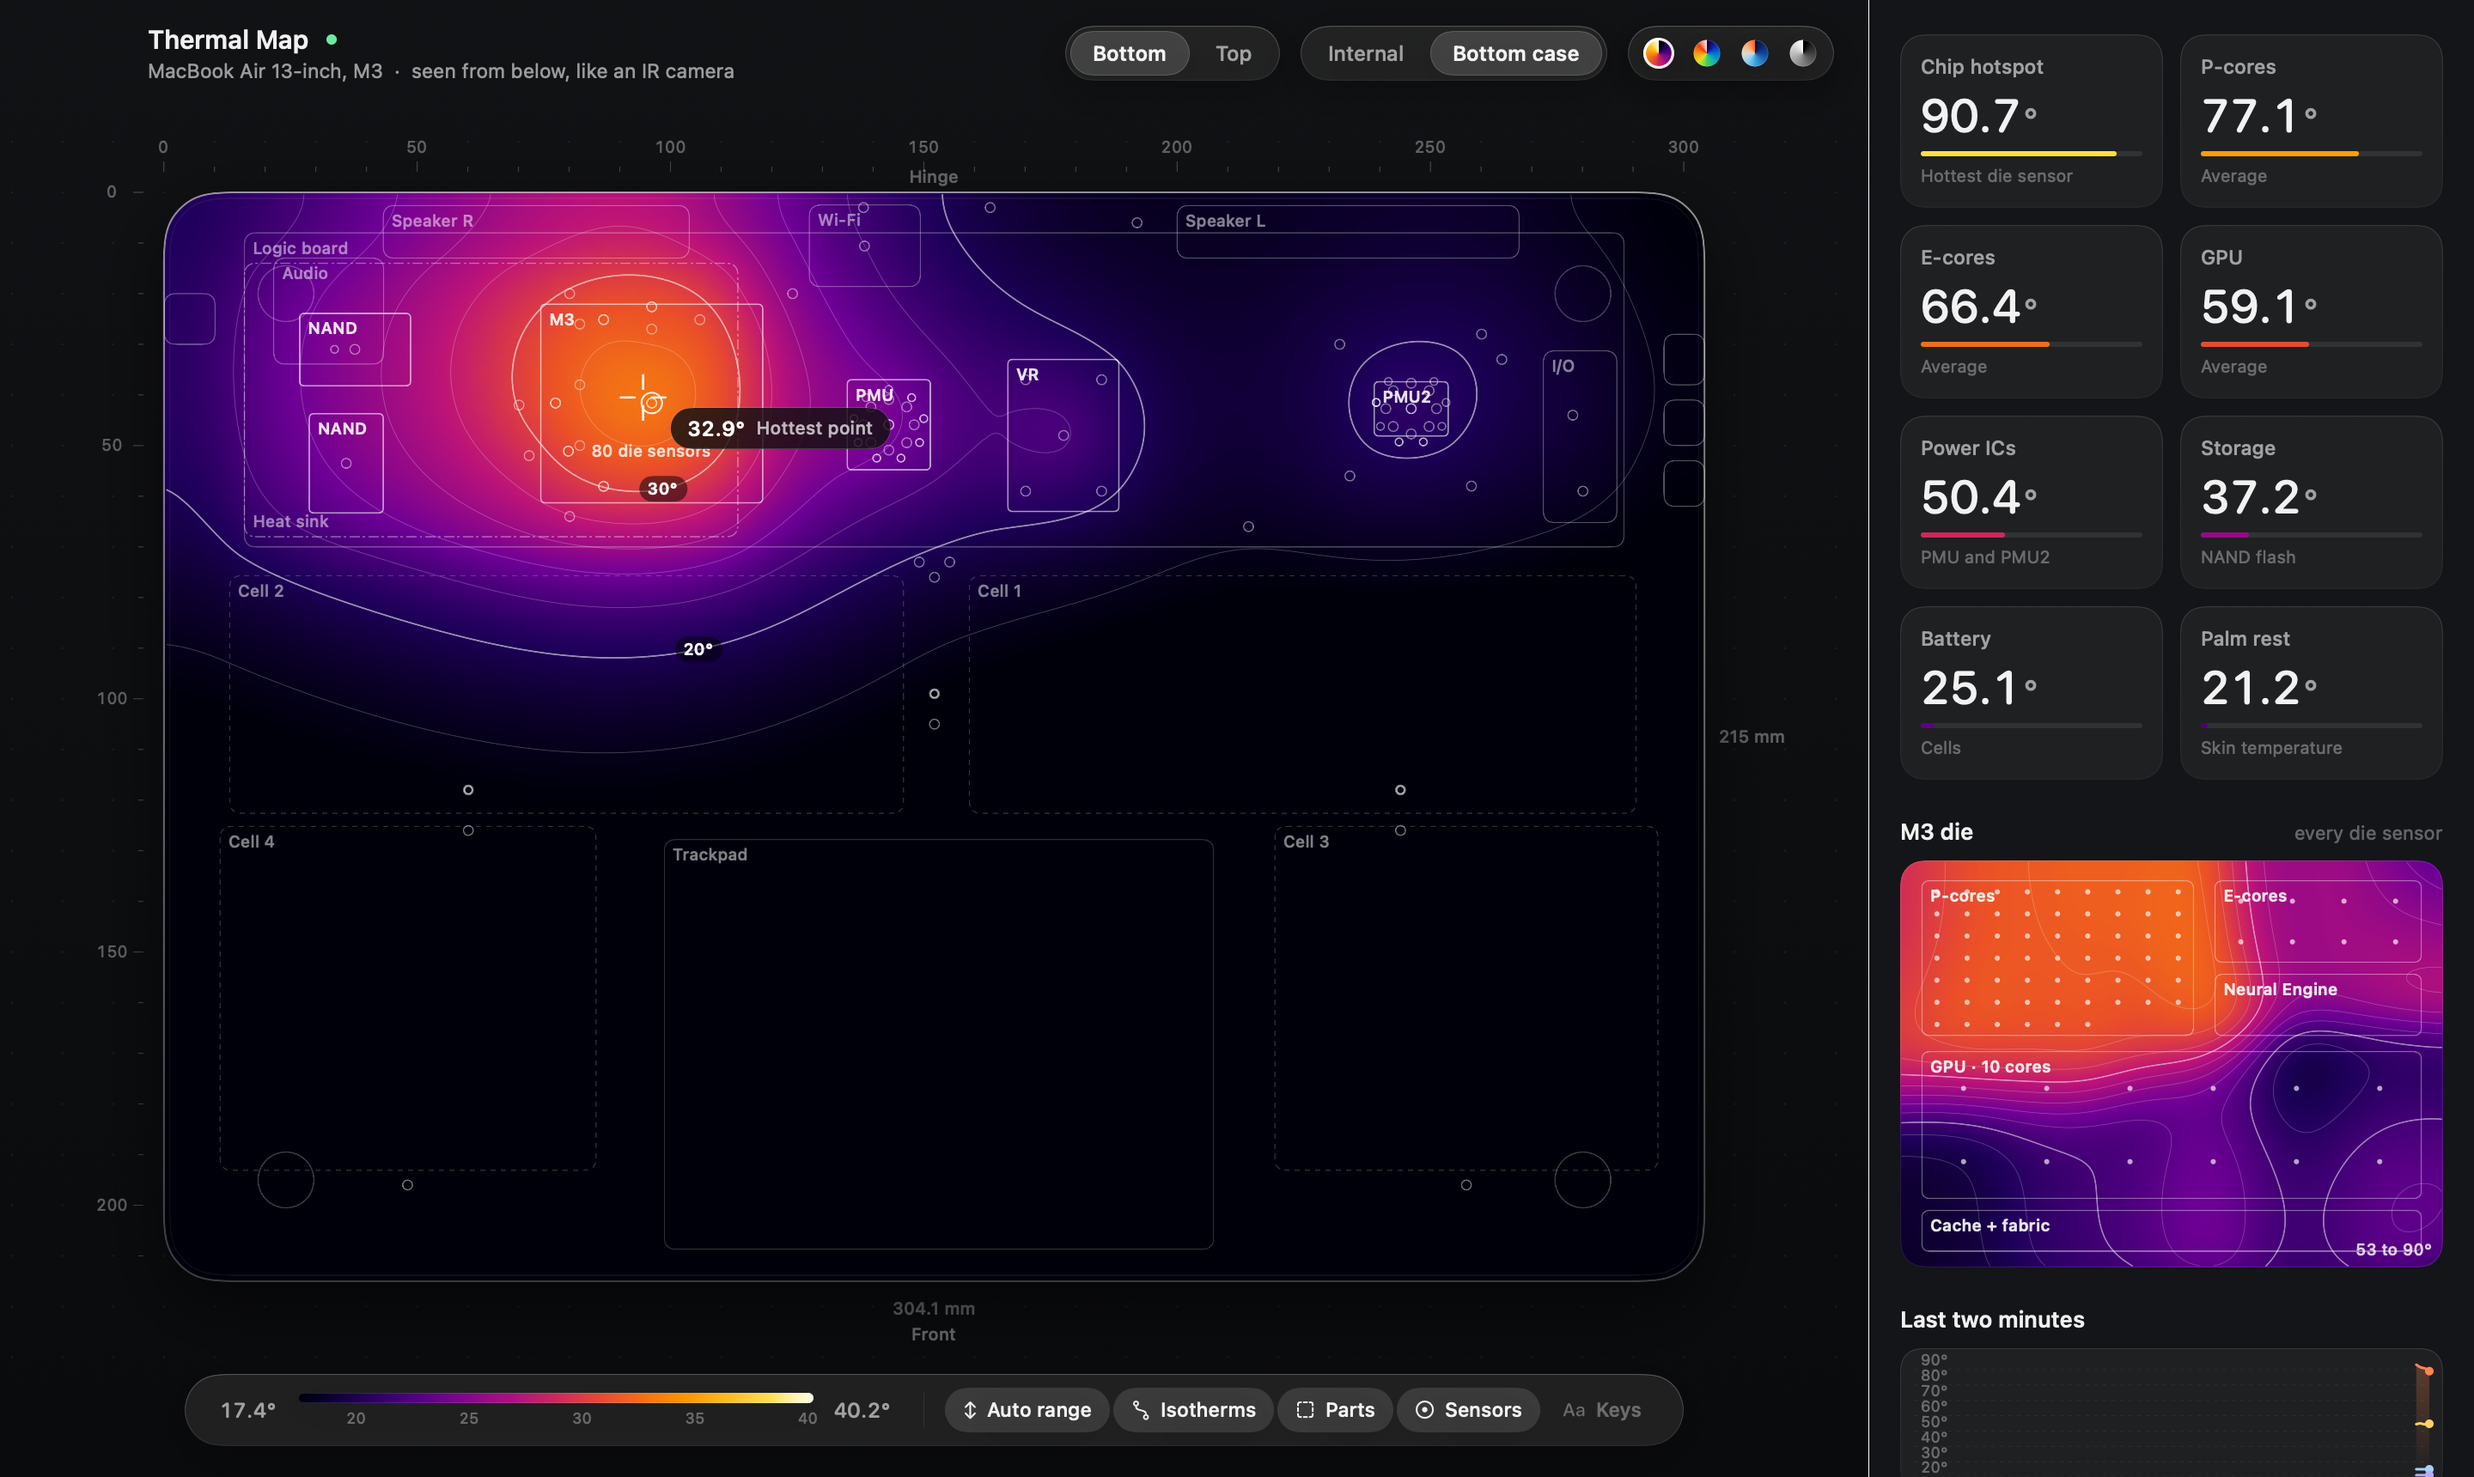
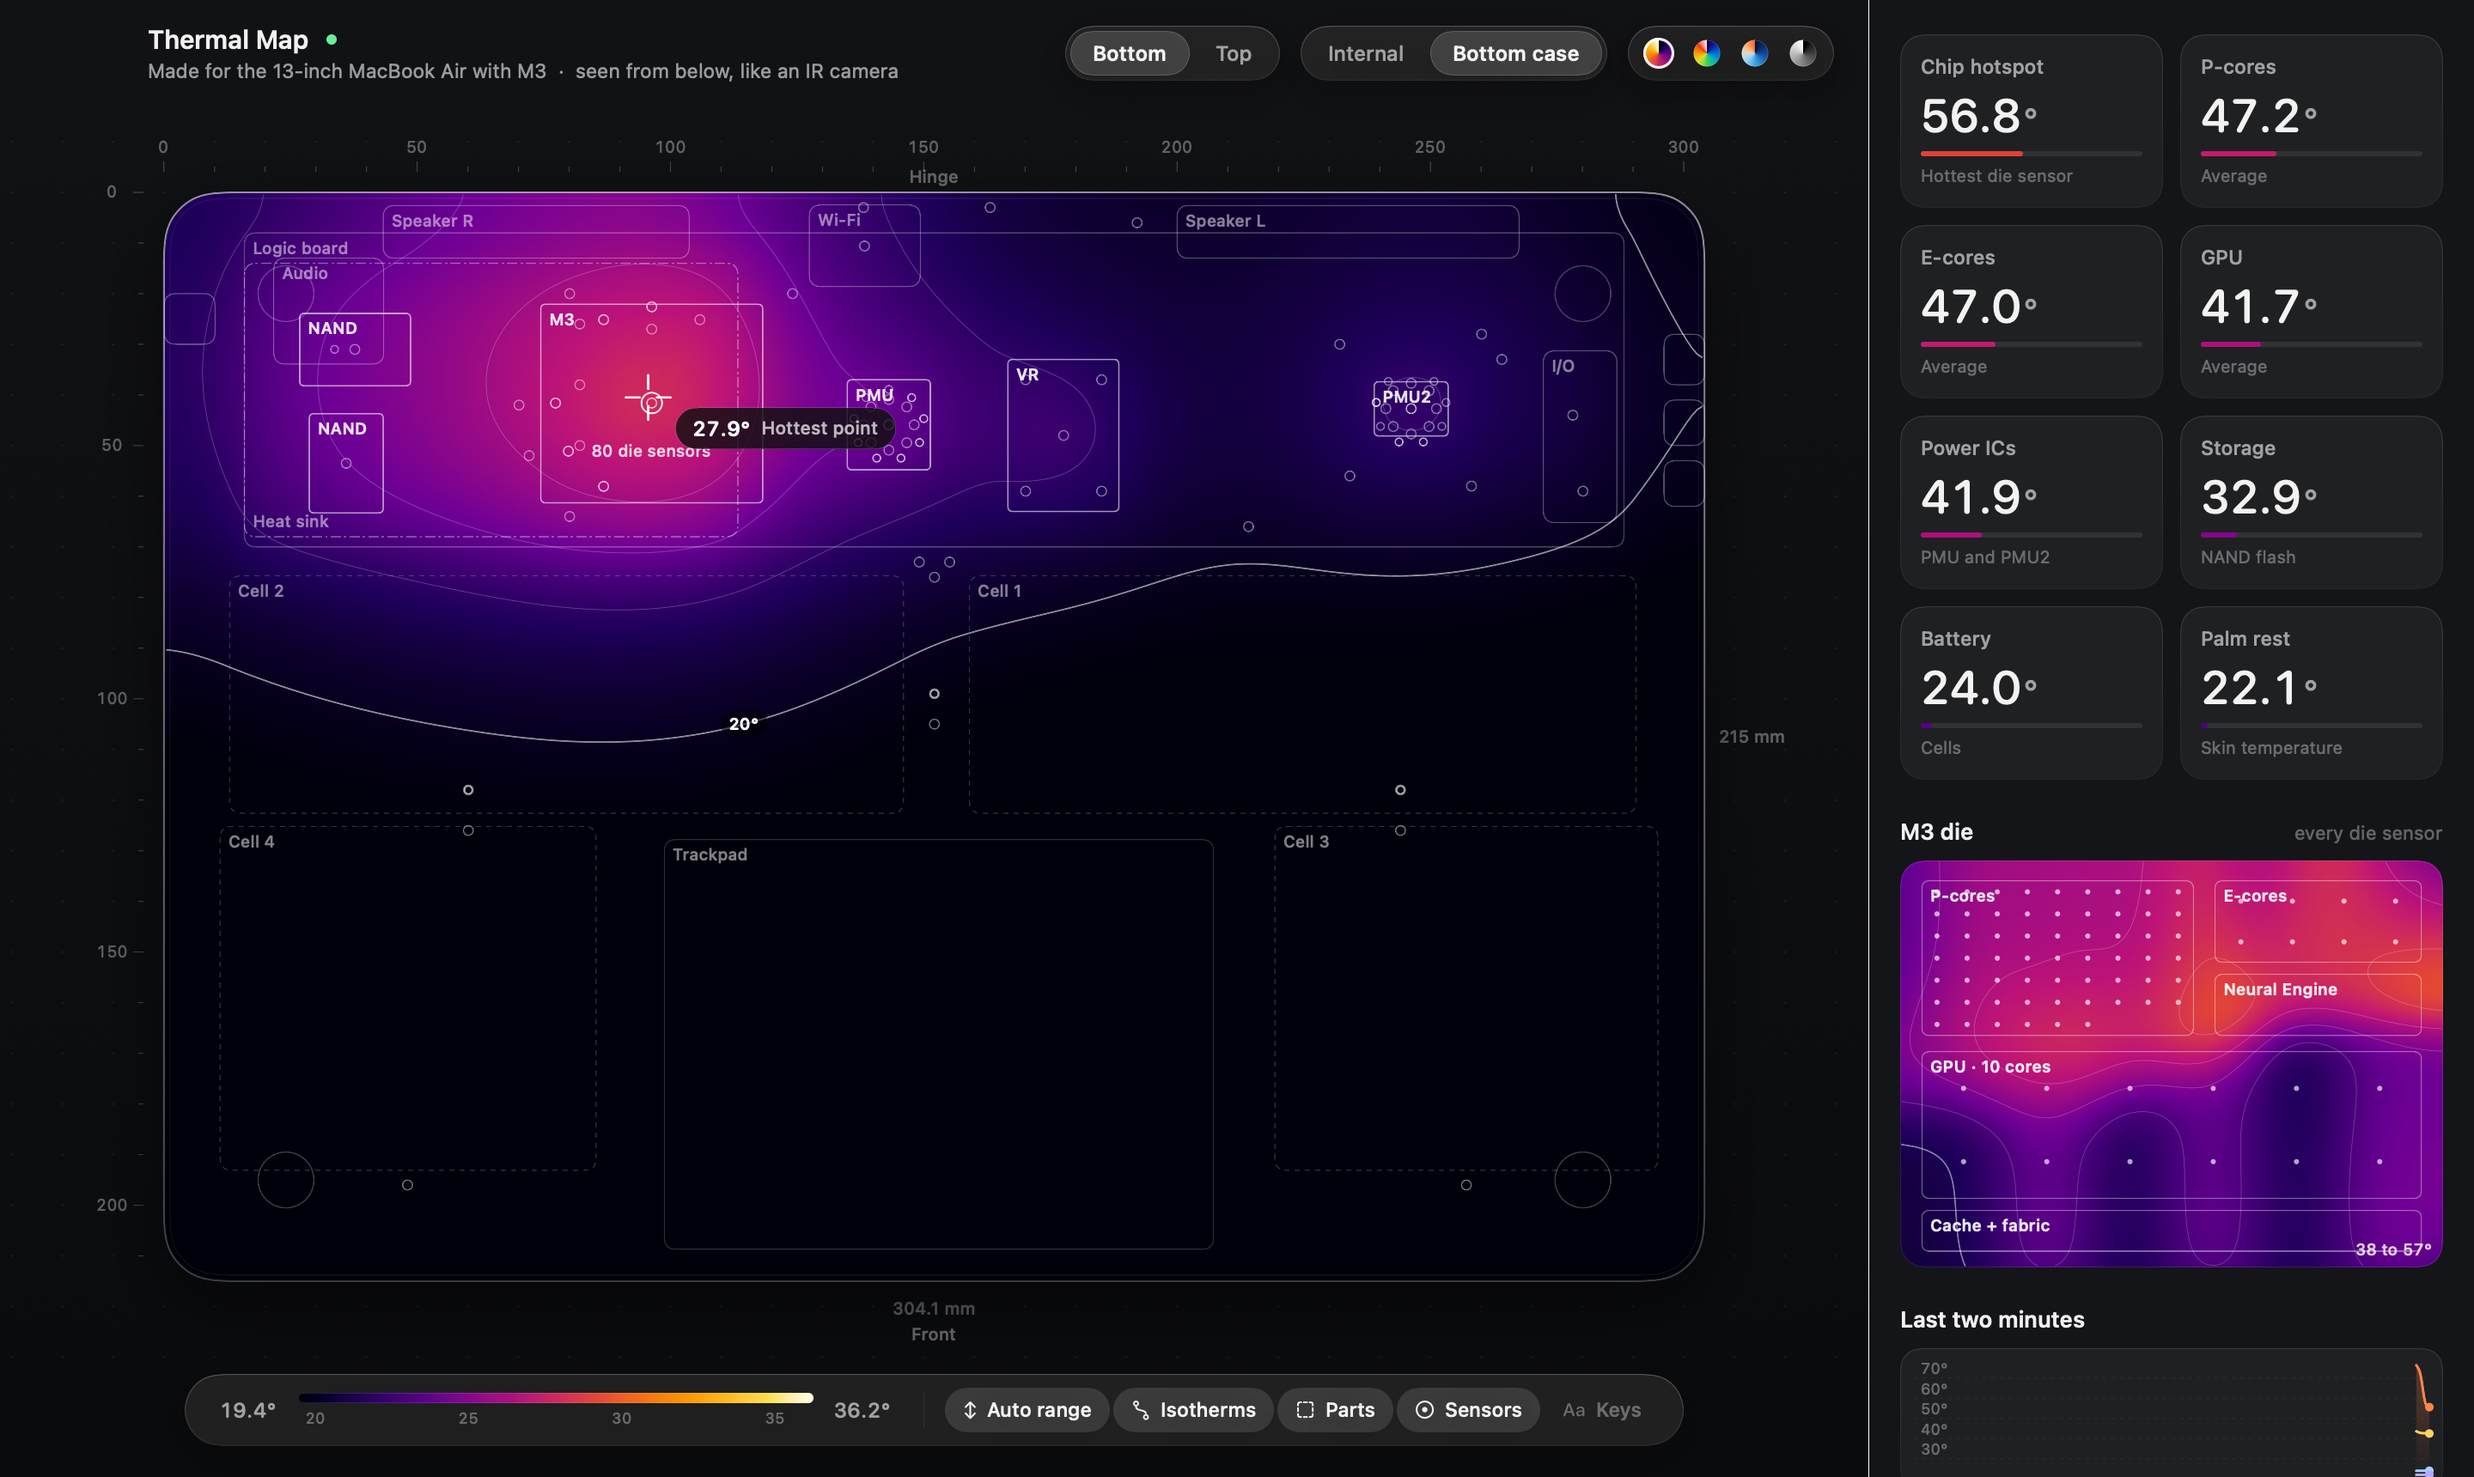
State plainly that Thermal Map is made for the 13-inch MacBook Air with M3
README callout, header subtitle and sidebar line; a notice on any other Mac model (hw.model,
THERMALMAP_FAKE_MODEL to test it); fresh screenshots.

diff --git a/Sources/Views.swift b/Sources/Views.swift
@@ -112,6 +112,9 @@ struct ContentView: View {
                         .padding(.bottom, 64)
                 }
                 Legend(m: m).padding(.bottom, 18)
+                if !ThermalModel.isTargetMac {
+                    VStack { ModelNotice().padding(.top, 70); Spacer() }
+                }
             }
             .background(LinearGradient(colors: [UI.bgTop, UI.bgBottom], startPoint: .top, endPoint: .bottom))
             Rectangle().fill(UI.hairline).frame(width: 0.5)
@@ -210,6 +213,26 @@ struct LiveDot: View {
     }
 }
 
+/// Shown on any Mac other than the 13-inch MacBook Air with M3: the sensors are real, the board is not.
+struct ModelNotice: View {
+    var body: some View {
+        HStack(spacing: 10) {
+            Image(systemName: "exclamationmark.triangle.fill").foregroundStyle(Color(red: 1, green: 0.78, blue: 0.35))
+            VStack(alignment: .leading, spacing: 2) {
+                Text("Made for the 13-inch MacBook Air with M3").font(UI.text(12.5, .semibold))
+                Text("This Mac is \(ThermalModel.hwModel). The readings are real, but the board, sensor positions and heat model are the M3 Air's, so the map won't match this machine.")
+                    .font(UI.text(11)).foregroundStyle(UI.secondary).fixedSize(horizontal: false, vertical: true)
+            }
+        }
+        .padding(.horizontal, 14).padding(.vertical, 10)
+        .frame(maxWidth: 560, alignment: .leading)
+        // solid enough to read over the heat map (glass would let the colours through)
+        .background(RoundedRectangle(cornerRadius: 16, style: .continuous).fill(Color(white: 0.09).opacity(0.94)))
+        .overlay(RoundedRectangle(cornerRadius: 16, style: .continuous).strokeBorder(Color.white.opacity(0.14), lineWidth: 0.6))
+        .shadow(color: .black.opacity(0.4), radius: 16, y: 6)
+    }
+}
+
 // MARK: - Header
 
 struct Header: View {
@@ -221,7 +244,7 @@ struct Header: View {
                     Text("Thermal Map").font(UI.text(15, .semibold))
                     LiveDot()
                 }
-                Text("MacBook Air 13-inch, M3  ·  \(m.side == .bottom ? "seen from below, like an IR camera" : "seen from above, through the keyboard")")
+                Text("Made for the 13-inch MacBook Air with M3  ·  \(m.side == .bottom ? "seen from below, like an IR camera" : "seen from above, through the keyboard")")
                     .font(UI.text(11.5)).foregroundStyle(UI.secondary)
                     .contentTransition(.opacity)
             }
@@ -572,6 +595,7 @@ struct Sidebar: View {
                 sensorList
                 VStack(alignment: .leading, spacing: 6) {
                     Text("\(m.smcKeyCount) SMC keys scanned, \(m.smcTempCount) are temperatures, plus \(m.hidCount) HID thermal services. Read in \(UI.fmt(m.lastSampleMs)) ms once a second; the map updates five times a second.")
+                    Text("Thermal Map, its heat model and its board layout were made specifically to show the heat inside the 13-inch MacBook Air with M3 (Mac15,12).")
                     Text("The layout is calibrated to Apple's Self Service Repair manual for this machine (J613), within about 3 to 5 mm. Each reading is pinned at the part it measures, and a two-layer heat-conduction model fills in everything between them. Bottom case shows the modelled outer aluminium, which is what an IR camera would see.")
                 }
                 .font(UI.text(10.5)).foregroundStyle(UI.tertiary).lineSpacing(2)

diff --git a/Sources/Model.swift b/Sources/Model.swift
@@ -97,6 +97,18 @@ struct HistoryPoint { var soc: Double; var pmu: Double; var battery: Double; var
 
 final class ThermalModel: ObservableObject {
     nonisolated(unsafe) static var renderMode = false
+    /// The one Mac this layout and model were built for.
+    static let targetModel = "Mac15,12"
+    /// This Mac's model identifier (THERMALMAP_FAKE_MODEL overrides it, to test the notice).
+    static let hwModel: String = {
+        if let f = ProcessInfo.processInfo.environment["THERMALMAP_FAKE_MODEL"] { return f }
+        var size = 0
+        sysctlbyname("hw.model", nil, &size, nil, 0)
+        var buf = [CChar](repeating: 0, count: max(size, 1))
+        sysctlbyname("hw.model", &buf, &size, nil, 0)
+        return String(cString: buf)
+    }()
+    static var isTargetMac: Bool { hwModel == targetModel }
     /// THERMALMAP_ALWAYS_RENDER=1 keeps the map updating while the window is hidden (flicker tests).
     static let alwaysRender = ProcessInfo.processInfo.environment["THERMALMAP_ALWAYS_RENDER"] == "1"
     // sidebar data (2 Hz)

diff --git a/README.md b/README.md
@@ -2,6 +2,8 @@
 
 Thermal Map shows the heat inside a MacBook Air the way a thermal camera would. It reads all 205 temperature sensors in the 13-inch MacBook Air with M3, places each reading on the part it measures, and solves how heat flows between them. The result is a live, smooth picture of the M3, the heat sink, the logic board and the battery, updated five times a second.
 
+> **Made for one Mac.** Thermal Map, its heat model and its board layout were built specifically to show the heat inside the **13-inch MacBook Air with M3** (Mac15,12). The part outlines, sensor positions and model constants all belong to that machine. It runs on other Apple silicon Macs, but they have a different board, so the map would be wrong there, and the app says so. Layouts for other models are welcome, see [Contributing](#contributing).
+
 ![Thermal Map, internal view](docs/screenshot-internal.png)
 
 Watch the [demo video](https://github.com/Louistuis/thermal-map/releases/download/v1.0/thermal-map-demo-1080p.mp4) (43 seconds, recorded from live data).
